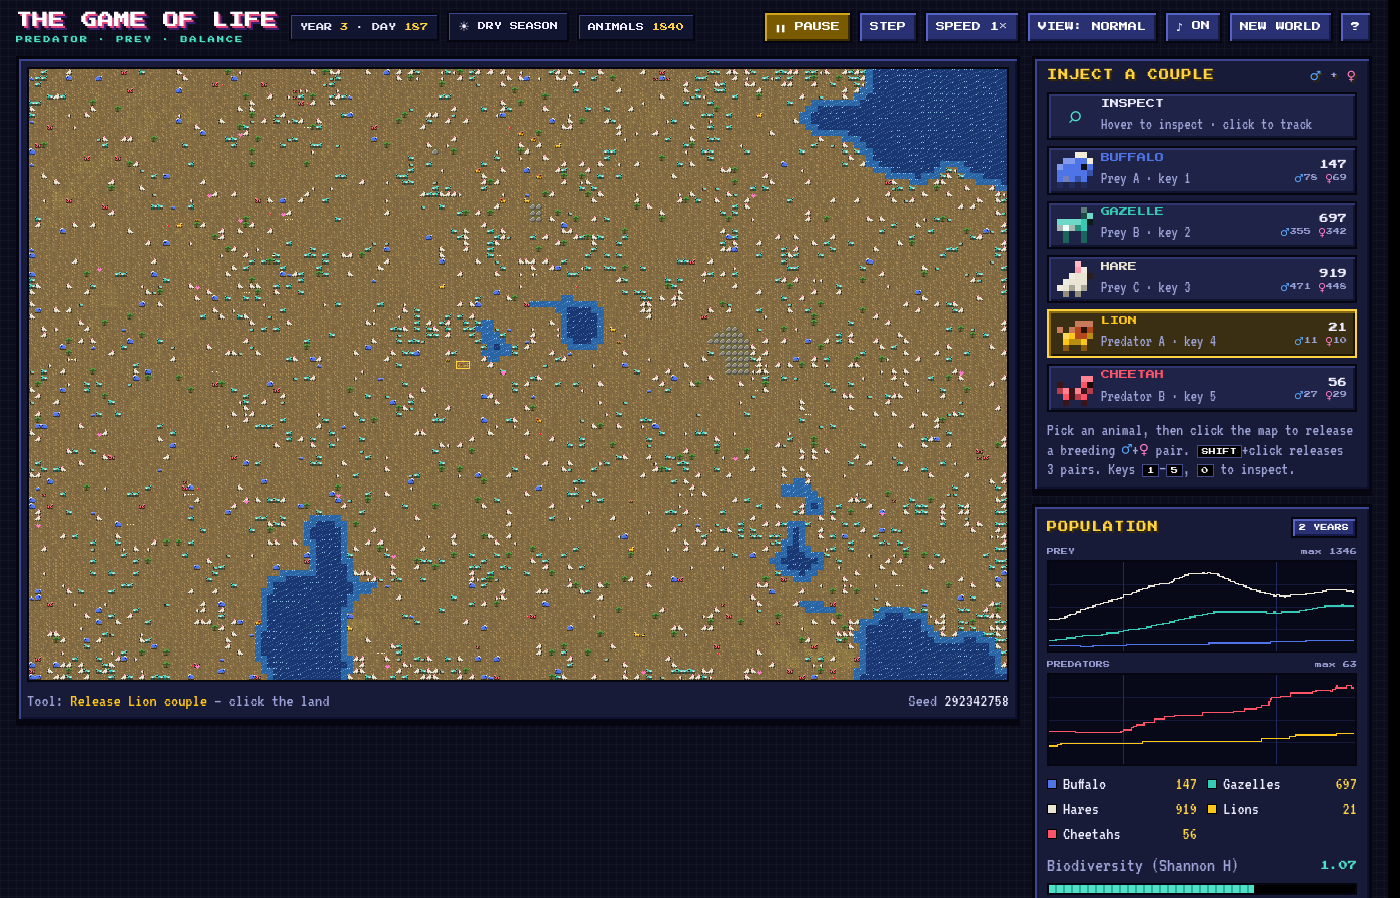
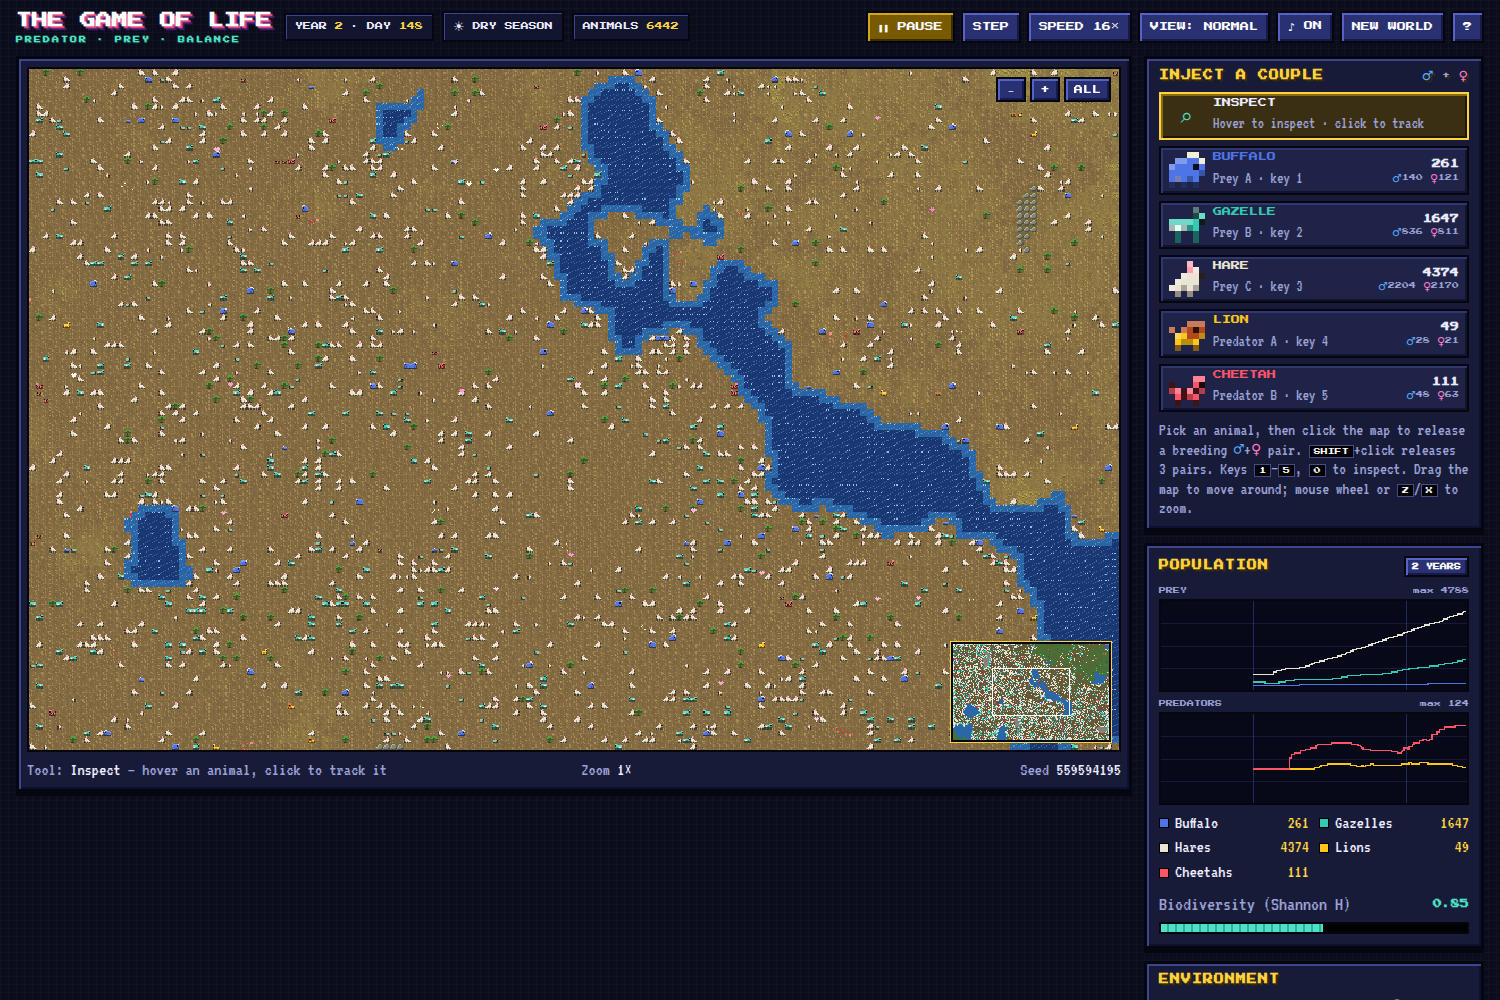
Document zoom/pan controls; new screenshot and balance results

diff --git a/index.html b/index.html
@@ -238,7 +238,7 @@ input[type=checkbox]{accent-color:var(--gold);width:18px;height:18px}
   <main class="layout">
     <section class="panel stage">
       <div class="canvas-wrap" id="wrap">
-        <canvas id="world" width="960" height="600" tabindex="0" aria-label="Savanna world map. Click, or focus it and use the arrow keys and Enter, to release a couple or inspect animals."></canvas>
+        <canvas id="world" width="960" height="600" tabindex="0" aria-label="Savanna world map. Click, or focus it and use the arrow keys and Enter, to release a couple or inspect animals. Drag or use W A S D to move around; mouse wheel, Z or X to zoom."></canvas>
         <div id="zoomBar" role="group" aria-label="Zoom">
           <button class="btn" id="btnZoomOut" title="Zoom out (X or mouse wheel)" aria-label="Zoom out">−</button>
           <button class="btn" id="btnZoomIn" title="Zoom in (Z or mouse wheel)" aria-label="Zoom in">+</button>
@@ -262,7 +262,7 @@ input[type=checkbox]{accent-color:var(--gold);width:18px;height:18px}
       <div class="panel">
         <h2>INJECT A COUPLE <span style="color:var(--muted);font-size:7px"><span class="sym male">♂</span> + <span class="sym female">♀</span></span></h2>
         <div class="sp-grid" id="spGrid"></div>
-        <p class="hint">Pick an animal, then click the map to release a breeding <span class="male">♂</span>+<span class="female">♀</span> pair. <kbd>SHIFT</kbd>+click releases 3 pairs. Keys <kbd>1</kbd>–<kbd>5</kbd>, <kbd>0</kbd> to inspect.</p>
+        <p class="hint">Pick an animal, then click the map to release a breeding <span class="male">♂</span>+<span class="female">♀</span> pair. <kbd>SHIFT</kbd>+click releases 3 pairs. Keys <kbd>1</kbd>–<kbd>5</kbd>, <kbd>0</kbd> to inspect. Drag the map to move around; mouse wheel or <kbd>Z</kbd>/<kbd>X</kbd> to zoom.</p>
       </div>
       <div class="panel">
         <h2>POPULATION <button class="btn" id="btnRange" style="font-size:7px;padding:5px 6px">2 YEARS</button></h2>
@@ -368,6 +368,10 @@ input[type=checkbox]{accent-color:var(--gold);width:18px;height:18px}
       <kbd>1–5</kbd><span>Select an animal to inject (Buffalo, Gazelle, Hare, Lion, Cheetah)</span>
       <kbd>CLICK</kbd><span>Release a ♂+♀ couple (with Shift: 3 couples)</span>
       <kbd>ARROWS + ENTER</kbd><span>Keyboard play: Tab to the map, move the cursor with the arrows, press Enter to act</span>
+      <kbd>WHEEL / Z X</kbd><span>Zoom in / out (or the − + ALL buttons on the map)</span>
+      <kbd>DRAG / W A S D</kbd><span>Move around the map (Shift = faster)</span>
+      <kbd>F</kbd><span>Follow the animal you are tracking</span>
+      <kbd>MINIMAP</kbd><span>Click or drag the small map in the corner to jump there</span>
       <kbd>0 / ESC</kbd><span>Inspect tool: hover to see an animal, click to track it</span>
       <kbd>SPACE</kbd><span>Pause / resume</span>
       <kbd>.</kbd><span>Step one day while paused</span>

diff --git a/README.md b/README.md
@@ -26,6 +26,8 @@ Every birth needs a male and a female of the same species. Young predators follo
 
 - **1–5**: pick an animal, then **click the map** to release a ♂+♀ couple (**Shift+click** releases 3 couples).
 - **0 / Esc**: inspect tool. Hover to see an animal's age, energy and current action; click to track it.
+- The savanna is 320 × 200 tiles, bigger than one screen. **Mouse wheel** or **Z / X** zoom (also the **− + ALL** buttons on the map; ALL shows the whole world). **Drag** the map or hold **W A S D** to move around (**Shift** = faster); on a phone, drag with one finger and pinch to zoom.
+- **F** (or the **FOLLOW** button on the tracking card) keeps the camera on the animal you are tracking. Click or drag the **minimap** in the corner to jump anywhere.
 - **Space** pause · **.** step one day · **+/−** speed (1×–16×) · **V** view mode (normal / sex / energy) · **N** new world · **M** sound · **H** help.
 - Rainfall slider and wet/dry seasons change how fast grass grows.
 - Complete the 8 objectives, read the field notes in the journal (they appear when something worth learning happens), and explore the **Ecology 101** tab.
@@ -41,6 +43,16 @@ The simulation core (`<script id="sim-core">`) has no DOM dependencies, so you c
 ```bash
 node tools/balance.js 15 5 balanced   # years, seeds, preset: population report per half-year
 node tools/sweep.js '[{}, {"lion":{"crowdMax":2}}]' 20 4   # score parameter overrides by coexistence
+node tools/test-world.js    # world size and starting herds
+node tools/test-camera.js   # camera maths (zoom, pan, screen <-> tile, minimap)
 ```
 
-In testing with the default parameters, the Balanced Savanna kept all five species alive for 10+ years in every seed, and for 20 years in 9 of 10 seeds. Extinctions can still happen, and that is part of the lesson: reintroduce the species with the inject tool.
+The camera maths lives in its own DOM-free `<script id="camera-core">`. In-browser checks for zoom, drag, keyboard, minimap and follow live in `tools/ui-check.js`: serve the folder (for example `python3 -m http.server`), open `index.html?debug`, and run this in the browser console:
+
+```js
+await fetch('tools/ui-check.js').then(r => r.text()).then(t => (0, eval)(t)); await uiCheck();
+```
+
+It returns `{ passed, failed, notes }`; `failed` should be empty. Keep the tab visible while it runs, because hidden tabs pause animation.
+
+In testing with the default parameters (`node tools/balance.js 20 10 balanced`), the Balanced Savanna kept all five species alive for 10 years in 10 of 10 seeds, and for 20 years in 10 of 10 seeds. Extinctions can still happen, and that is part of the lesson: reintroduce the species with the inject tool.
